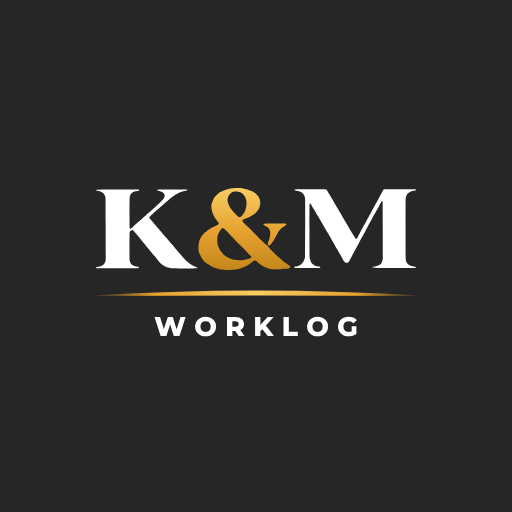
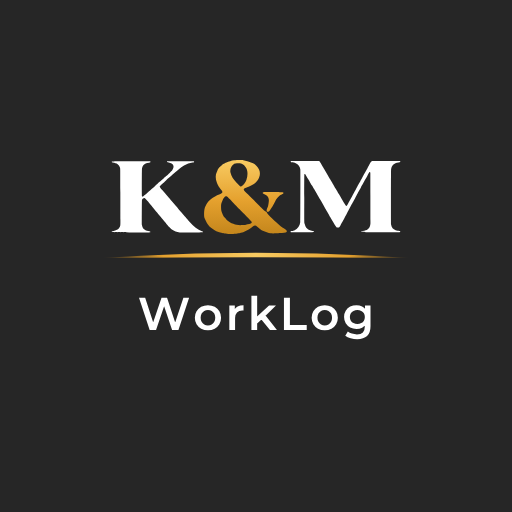
홈 화면 아이콘: 앱 이름 글자를 크게, 덜 굵게
Claude-Session: https://claude.ai/code/session_017hFyDVuN66WHfys2L9DkhS

Changed region(s): [[0.1875, 0.3125, 0.8125, 0.5312], [0.2188, 0.5625, 0.7812, 0.6875]]

diff --git a/index.html b/index.html
@@ -18,7 +18,7 @@
 // 무시하고 옛 index.html 스냅샷을 계속 띄움 → 새 버전 감지 시 1회 강제 reload.
 // ⚠ 배포할 때 코드가 바뀌면 이 APP_BUILD 값을 반드시 올릴 것 (예: 날짜+일련번호).
 // ℹ reload 는 코드만 갱신 — Firebase 주소(wm_fb_url)·로그인 세션(wm_session)은 localStorage 라 유지됨(재로그인 불필요).
-const APP_BUILD = '2026-11-26-01';
+const APP_BUILD = '2026-11-26-02';
 // index.html 앞부분만 Range 로 가져와 최신 APP_BUILD 추출. ?_=타임스탬프 + no-store 로 캐시 우회.
 function _fetchLatestBuild(){
   return fetch(location.pathname + '?_=' + Date.now(), { cache: 'no-store', headers: { 'Range': 'bytes=0-3000' } })

diff --git a/invoice/index.html b/invoice/index.html
@@ -22,7 +22,7 @@
 // 🔄 앱 셸 자동 업데이트 (service worker 없이). iOS 홈화면 standalone 앱은 meta no-cache 를
 // 무시하고 옛 index.html 스냅샷을 계속 띄움 → 새 버전 감지 시 1회 강제 reload.
 // ⚠ 배포할 때 코드가 바뀌면 이 APP_BUILD 값을 반드시 올릴 것 (예: 날짜+일련번호).
-const APP_BUILD = '2026-11-26-01';
+const APP_BUILD = '2026-11-26-02';
 // index.html 앞부분만 Range 로 가져와 최신 APP_BUILD 추출(700KB 통다운로드 회피, 단일 소스 유지).
 // ?_=타임스탬프 + no-store 로 캐시 우회. CDN 이 206 미지원이면 200(전체)이라도 파싱은 됨.
 function _fetchLatestBuild(){

diff --git a/photos/index.html b/photos/index.html
@@ -231,7 +231,7 @@ input,textarea,select{font-family:inherit;font-size:16px}
 <div id="toast" class="toast"></div>
 <datalist id="builder-list"></datalist>
 <script>
-const APP_BUILD='2026-11-26-01';
+const APP_BUILD='2026-11-26-02';
 // 글 작성칸(textarea) 내용에 맞춰 자동으로 늘어남 (최대 화면 60%)
 function autoGrowTA(t){t.style.height='auto';t.style.height=Math.min(t.scrollHeight+3,window.innerHeight*0.6)+'px';}
 document.addEventListener('input',function(ev){if(ev.target&&ev.target.tagName==='TEXTAREA')autoGrowTA(ev.target);});
